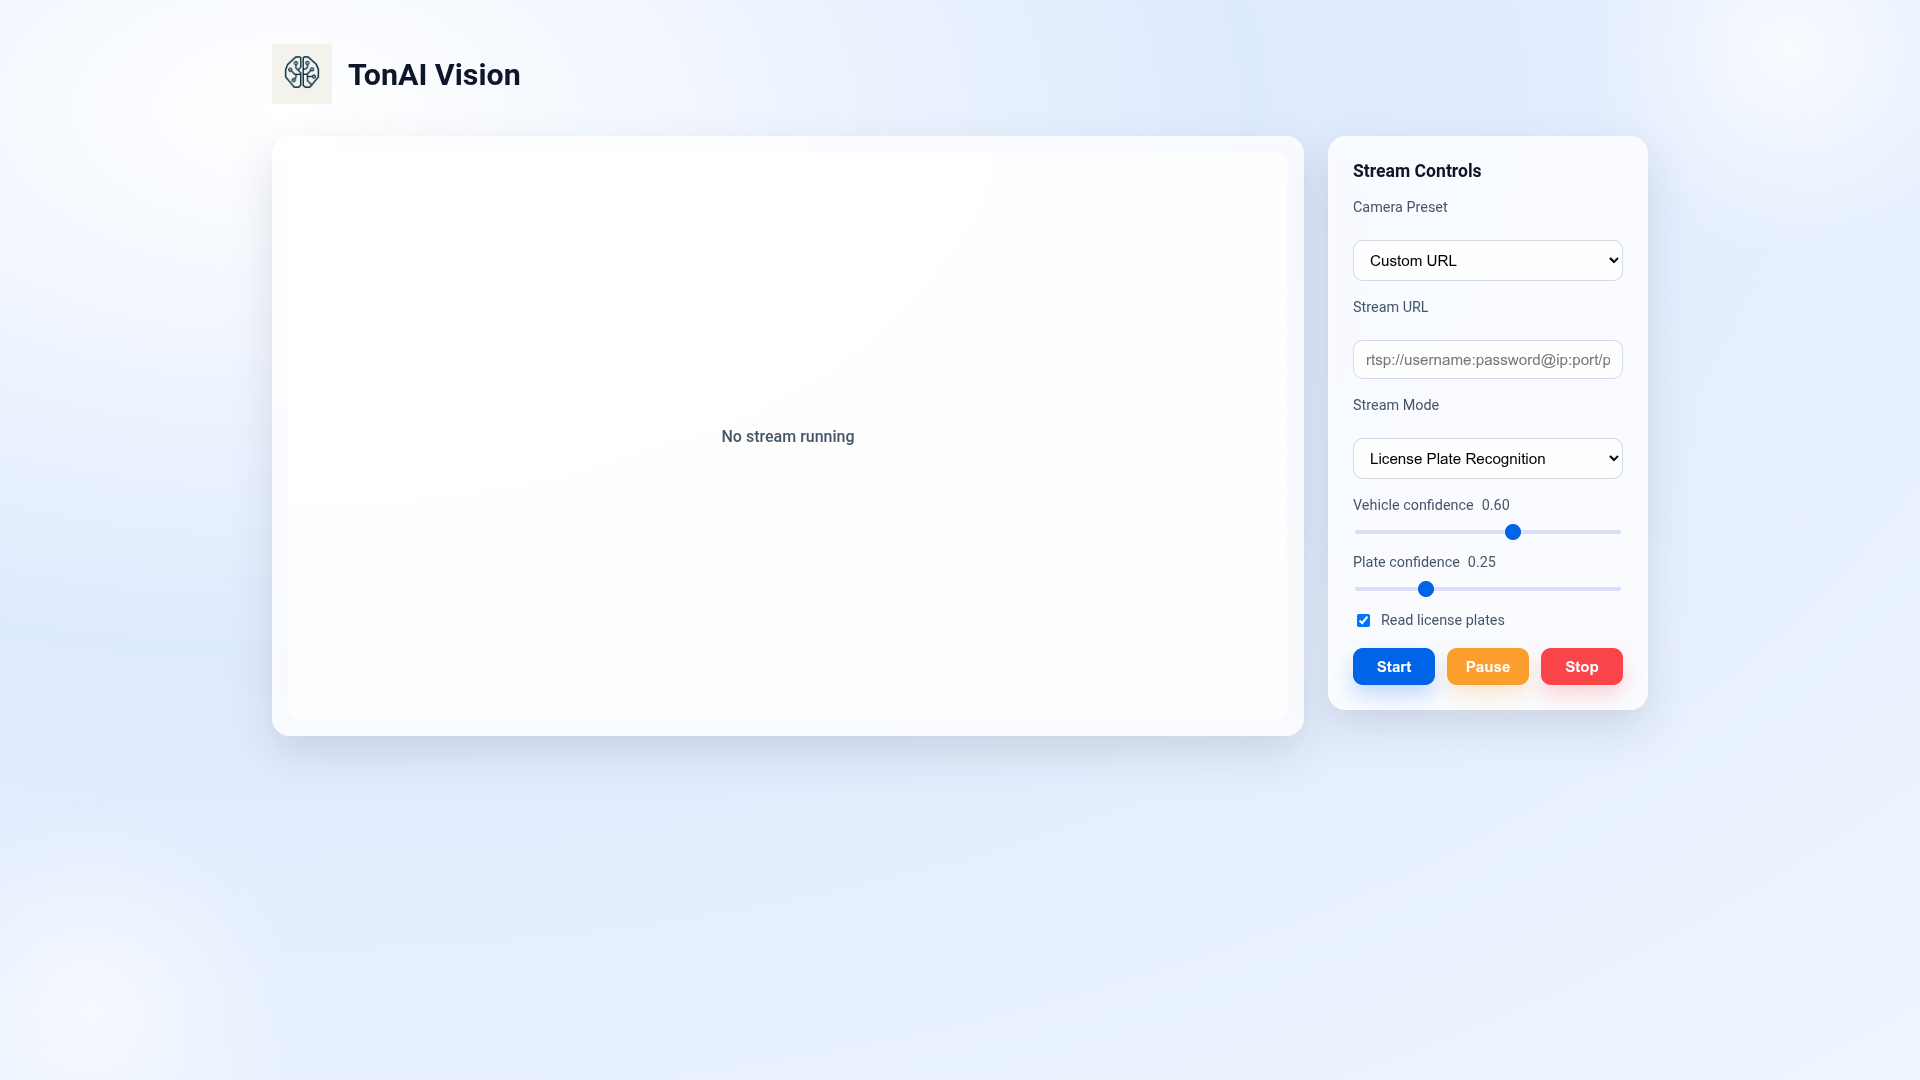
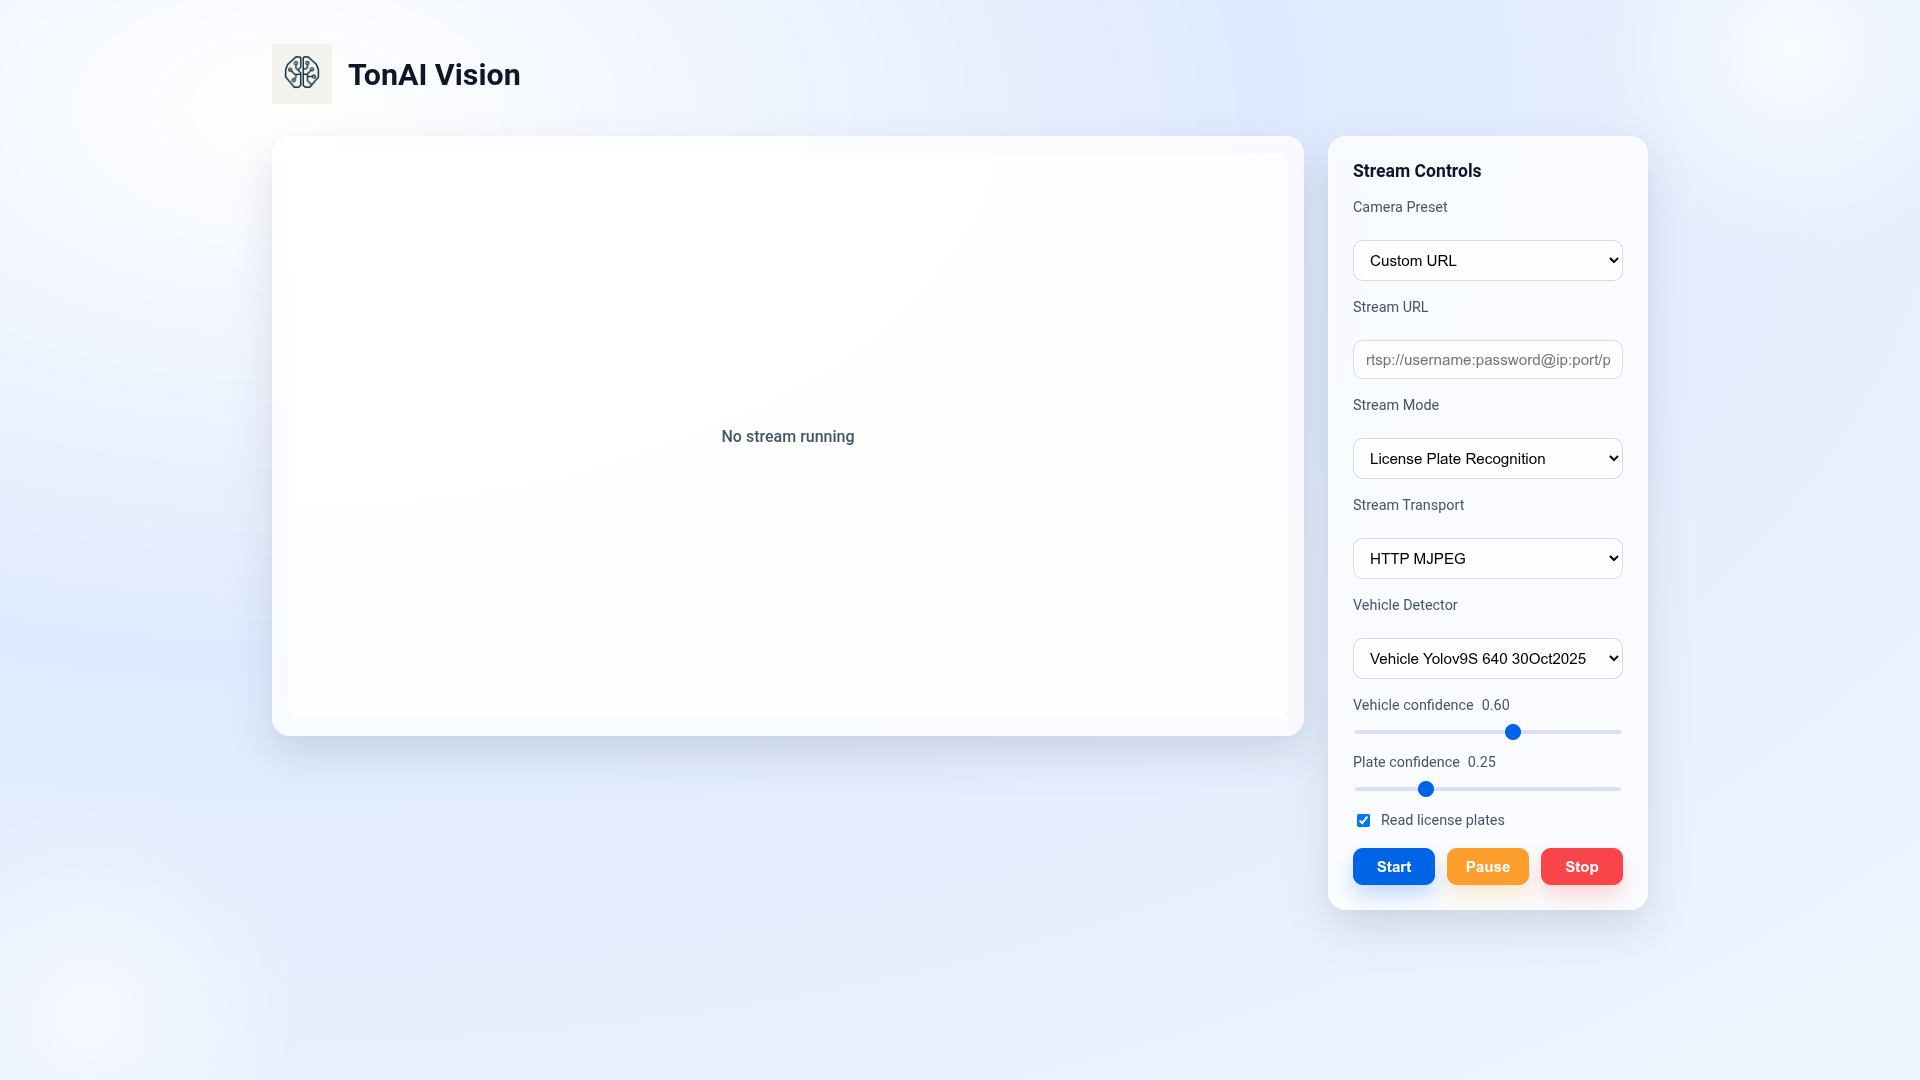
update webapp

Changed region(s): [[0.6875, 0.4583, 0.875, 0.825]]

diff --git a/webapp/frontend/alpr_stream.js b/webapp/frontend/alpr_stream.js
@@ -13,6 +13,7 @@ document.addEventListener('DOMContentLoaded', () => {
   const streamImg = document.getElementById('alpr-stream');
   const webrtcVideo = document.getElementById('webrtc-stream');
   const transportSelect = document.getElementById('stream-transport');
+  const vehicleModelSelect = document.getElementById('vehicle-model');
   const controlPanel = document.querySelector('.control-panel');
   const placeholder = document.getElementById('stream-placeholder');
   const placeholderText = placeholder ? placeholder.querySelector('p') : null;
@@ -30,7 +31,8 @@ document.addEventListener('DOMContentLoaded', () => {
     !webrtcVideo ||
     !transportSelect ||
     !readPlateToggle ||
-    !modeSelect
+    !modeSelect ||
+    !vehicleModelSelect
   ) {
     return;
   }
@@ -41,6 +43,7 @@ document.addEventListener('DOMContentLoaded', () => {
   let peerConnection = null;
   let currentStreamNonce = 0;
   let lastStartConfig = null;
+  let currentVehicleModel = null;
 
   function getSelectedTransport() {
     return transportSelect.value || TRANSPORT_MJPEG;
@@ -131,6 +134,126 @@ document.addEventListener('DOMContentLoaded', () => {
     }
     if (placeholder) {
       placeholder.style.display = 'none';
+    }
+  }
+
+  async function applyVehicleModel(weightId) {
+    if (!weightId) {
+      return;
+    }
+    const previousValue = currentVehicleModel;
+    vehicleModelSelect.disabled = true;
+    try {
+      const response = await fetch('/api/vehicle_models/select', {
+        method: 'POST',
+        headers: { 'Content-Type': 'application/json' },
+        body: JSON.stringify({ weight: weightId }),
+      });
+      if (!response.ok) {
+        throw new Error(`Server responded with ${response.status}`);
+      }
+      const payload = await response.json();
+      const selected = typeof payload?.selected === 'string' && payload.selected
+        ? payload.selected
+        : weightId;
+      currentVehicleModel = selected;
+      vehicleModelSelect.value = selected;
+    } catch (error) {
+      console.error('Failed to switch vehicle detector', error); // eslint-disable-line no-console
+      if (previousValue) {
+        vehicleModelSelect.value = previousValue;
+      }
+    } finally {
+      vehicleModelSelect.disabled = false;
+    }
+  }
+
+  async function loadVehicleModels() {
+    vehicleModelSelect.disabled = true;
+    vehicleModelSelect.innerHTML = '';
+
+    const loadingOption = document.createElement('option');
+    loadingOption.textContent = 'Loading...';
+    loadingOption.disabled = true;
+    loadingOption.selected = true;
+    vehicleModelSelect.appendChild(loadingOption);
+
+    try {
+      const response = await fetch('/api/vehicle_models');
+      if (!response.ok) {
+        throw new Error(`Request failed with status ${response.status}`);
+      }
+      const payload = await response.json();
+      const models = Array.isArray(payload?.models) ? payload.models : [];
+      const selected = typeof payload?.selected === 'string' ? payload.selected : null;
+
+      vehicleModelSelect.innerHTML = '';
+      if (!models.length) {
+        const emptyOption = document.createElement('option');
+        emptyOption.textContent = 'No models found';
+        emptyOption.disabled = true;
+        emptyOption.selected = true;
+        vehicleModelSelect.appendChild(emptyOption);
+        currentVehicleModel = null;
+        return;
+      }
+
+      let foundSelected = false;
+      let added = 0;
+      models.forEach((model) => {
+        if (!model) {
+          return;
+        }
+        const option = document.createElement('option');
+        const optionValue = typeof model.path === 'string' && model.path
+          ? model.path
+          : model.filename || '';
+        if (!optionValue) {
+          return;
+        }
+        option.value = optionValue;
+        option.textContent = model.label || model.filename || optionValue;
+        if (selected && optionValue === selected) {
+          option.selected = true;
+          foundSelected = true;
+        }
+        vehicleModelSelect.appendChild(option);
+        added += 1;
+      });
+
+      if (added === 0) {
+        const emptyOption = document.createElement('option');
+        emptyOption.textContent = 'No models found';
+        emptyOption.disabled = true;
+        emptyOption.selected = true;
+        vehicleModelSelect.appendChild(emptyOption);
+        currentVehicleModel = null;
+        return;
+      }
+
+      if (!foundSelected) {
+        vehicleModelSelect.selectedIndex = 0;
+        const fallbackValue = vehicleModelSelect.value;
+        currentVehicleModel = fallbackValue || null;
+        if (fallbackValue) {
+          await applyVehicleModel(fallbackValue);
+        }
+        return;
+      }
+
+      const selectedValue = vehicleModelSelect.value;
+      currentVehicleModel = selectedValue || null;
+    } catch (error) {
+      console.error('Failed to load vehicle models', error); // eslint-disable-line no-console
+      vehicleModelSelect.innerHTML = '';
+      const errorOption = document.createElement('option');
+      errorOption.textContent = 'Unable to load models';
+      errorOption.disabled = true;
+      errorOption.selected = true;
+      vehicleModelSelect.appendChild(errorOption);
+      currentVehicleModel = null;
+    } finally {
+      vehicleModelSelect.disabled = false;
     }
   }
 
@@ -308,6 +431,14 @@ document.addEventListener('DOMContentLoaded', () => {
     streamInput.classList.remove('input-error');
   });
 
+  vehicleModelSelect.addEventListener('change', async () => {
+    const value = vehicleModelSelect.value;
+    if (!value || value === currentVehicleModel) {
+      return;
+    }
+    await applyVehicleModel(value);
+  });
+
   startBtn.addEventListener('click', async () => {
     const url = streamInput.value.trim();
     if (!url) {
@@ -429,4 +560,5 @@ document.addEventListener('DOMContentLoaded', () => {
   }
 
   loadCameraPresets();
+  loadVehicleModels();
 });

diff --git a/webapp/frontend/index.html b/webapp/frontend/index.html
@@ -12,7 +12,7 @@
       <div class="app-brand">
         <img src="static/logo_notext.png" alt="TonAI Logo" class="brand-logo" />
         <div>
-          <h1>TonAI Vision</h1>
+          <h1>TonAI AI Traffic Camera</h1>
           <!-- <p class="tagline"></p> -->
         </div>
       </div>
@@ -48,6 +48,11 @@
         <select id="stream-transport">
           <option value="mjpeg" selected>HTTP MJPEG</option>
           <option value="webrtc">WebRTC (beta)</option>
+        </select>
+
+        <label class="control-label" for="vehicle-model">Vehicle Detector</label>
+        <select id="vehicle-model">
+          <option value="" disabled selected>Loading models...</option>
         </select>
 
         <div class="control-group alpr-only">

diff --git a/webapp/backend/main.py b/webapp/backend/main.py
@@ -42,10 +42,12 @@ BASE_DIR = Path(__file__).resolve().parent.parent
 STATIC_DIR = BASE_DIR / "frontend"
 REPO_ROOT = BASE_DIR.parent
 CAMERA_CONFIG_PATH = REPO_ROOT / "webapp" / "rtsp_url.json"
+VEHICLE_WEIGHTS_DIR = REPO_ROOT / "weights"
+VEHICLE_WEIGHT_EXTENSIONS = {".pt", ".pth"}
 
 # Initialize ALPR tracker (tracking + OCR) using shared core
 opts = SimpleNamespace(
-    vehicle_weight=str(REPO_ROOT / "weights" / "vehicle_yolo12s_640.pt"),
+    vehicle_weight=str(REPO_ROOT / "weights" / "vehicle_yolov9s_640_30oct2025.pt"),
     plate_weight=str(REPO_ROOT / "weights" / "plate_yolov8n_320_2024.pt"),
     dsort_weight=str(REPO_ROOT / "weights" / "deepsort" / "ckpt.t7"),
     vconf=0.6,
@@ -59,6 +61,39 @@ opts = SimpleNamespace(
 alpr_model = ALPRCore(opts)
 ALPR_PROCESS_LOCK = Lock()
 peer_connections: Set[RTCPeerConnection] = set()
+
+
+def _find_vehicle_weights() -> List[Path]:
+    if not VEHICLE_WEIGHTS_DIR.exists():
+        return []
+    weights: List[Path] = []
+    for path in VEHICLE_WEIGHTS_DIR.rglob("*"):
+        if not path.is_file():
+            continue
+        if path.suffix.lower() not in VEHICLE_WEIGHT_EXTENSIONS:
+            continue
+        if "vehicle" not in path.stem.lower():
+            continue
+        try:
+            path.relative_to(VEHICLE_WEIGHTS_DIR)
+        except ValueError:
+            continue
+        weights.append(path)
+    weights.sort()
+    return weights
+
+
+def _serialize_weight_path(path: Path) -> dict:
+    try:
+        rel_path = path.relative_to(VEHICLE_WEIGHTS_DIR)
+    except ValueError:
+        rel_path = path
+    label = path.stem.replace("_", " ").title()
+    return {
+        "label": label,
+        "filename": path.name,
+        "path": rel_path.as_posix(),
+    }
 
 
 def gen_frames(
@@ -308,6 +343,61 @@ def camera_presets():
 
     presets = [{"label": key, "url": value} for key, value in data.items()]
     return {"presets": presets}
+
+
+@app.get("/api/vehicle_models")
+def vehicle_models():
+    weights = _find_vehicle_weights()
+    selected_path = Path(getattr(alpr_model.opts, "vehicle_weight", ""))
+    selected_id: Optional[str] = None
+    try:
+        selected_id = selected_path.relative_to(VEHICLE_WEIGHTS_DIR).as_posix()
+    except Exception:
+        try:
+            resolved = selected_path.resolve()
+            selected_id = resolved.relative_to(VEHICLE_WEIGHTS_DIR.resolve()).as_posix()
+        except Exception:
+            selected_id = selected_path.name or None
+
+    models = [_serialize_weight_path(path) for path in weights]
+    return {"models": models, "selected": selected_id}
+
+
+@app.post("/api/vehicle_models/select")
+def select_vehicle_model(payload: dict):
+    weight_id = payload.get("weight")
+    if not weight_id or not isinstance(weight_id, str):
+        raise HTTPException(status_code=400, detail="Field 'weight' is required")
+
+    candidate_path = Path(weight_id)
+    if candidate_path.is_absolute():
+        # Only allow weights inside the configured weights directory
+        try:
+            candidate_path = candidate_path.relative_to(VEHICLE_WEIGHTS_DIR)
+        except ValueError as exc:
+            raise HTTPException(status_code=400, detail="Weight must be inside the weights directory") from exc
+
+    resolved_path = (VEHICLE_WEIGHTS_DIR / candidate_path).resolve()
+    try:
+        resolved_path.relative_to(VEHICLE_WEIGHTS_DIR.resolve())
+    except ValueError as exc:
+        raise HTTPException(status_code=400, detail="Invalid weight path") from exc
+
+    if not resolved_path.exists() or not resolved_path.is_file():
+        raise HTTPException(status_code=404, detail="Vehicle weight not found")
+    if resolved_path.suffix.lower() not in VEHICLE_WEIGHT_EXTENSIONS:
+        raise HTTPException(status_code=400, detail="Unsupported weight format")
+    if "vehicle" not in resolved_path.stem.lower():
+        raise HTTPException(status_code=400, detail="Not a vehicle weight")
+
+    with ALPR_PROCESS_LOCK:
+        try:
+            alpr_model.set_vehicle_weight(str(resolved_path))
+        except Exception as exc:
+            raise HTTPException(status_code=500, detail=f"Failed to load vehicle model: {exc}") from exc
+
+    selected_rel = resolved_path.relative_to(VEHICLE_WEIGHTS_DIR).as_posix()
+    return {"selected": selected_rel}
 
 
 # Chatbot streaming proxy to Ollama-compatible API (local Ollama)

diff --git a/utils/alpr_core.py b/utils/alpr_core.py
@@ -12,7 +12,7 @@ from tracking.deep_sort import DeepSort
 from tracking.sort import Sort
 from utils.utils import (
     BGR_COLORS,
-    VEHICLES,
+    VEHICLES,   
     Vehicle,
     check_image_size,
     check_legit_plate,
@@ -42,10 +42,9 @@ class ALPRCore:
         self._is_cuda = str(self.opts.device).lower().startswith("cuda")
 
         # Detectors
-        self.vehicle_detector = YOLO(self.opts.vehicle_weight, task="detect")
+        self.vehicle_detector = self._create_vehicle_detector(self.opts.vehicle_weight)
         self.plate_detector = YOLO(self.opts.plate_weight, task="detect")
         try:
-            self.vehicle_detector.to(self.opts.device)
             self.plate_detector.to(self.opts.device)
         except Exception:
             pass
@@ -74,6 +73,15 @@ class ALPRCore:
         # Misc
         self.color = BGR_COLORS
         self.lang = getattr(self.opts, "lang", "en")
+
+    def _create_vehicle_detector(self, weight_path: str) -> YOLO:
+        detector = YOLO(weight_path, task="detect")
+        try:
+            detector.to(self.opts.device)
+        except Exception:
+            pass
+        self.opts.vehicle_weight = weight_path
+        return detector
 
     def _resolve_device(self, requested: Optional[str]) -> str:
         if requested is None:
@@ -108,6 +116,13 @@ class ALPRCore:
 
     def reset(self) -> None:
         self._init_tracker()
+
+    def set_vehicle_weight(self, weight_path: str) -> None:
+        if not weight_path:
+            raise ValueError("Vehicle weight path must be provided")
+        self.vehicle_detector = self._create_vehicle_detector(weight_path)
+        # reset tracker state so IDs restart for the new model
+        self.reset()
 
     def _extract_plate_text(self, plate_image):
         results = self.ocr.predict(input=plate_image)
